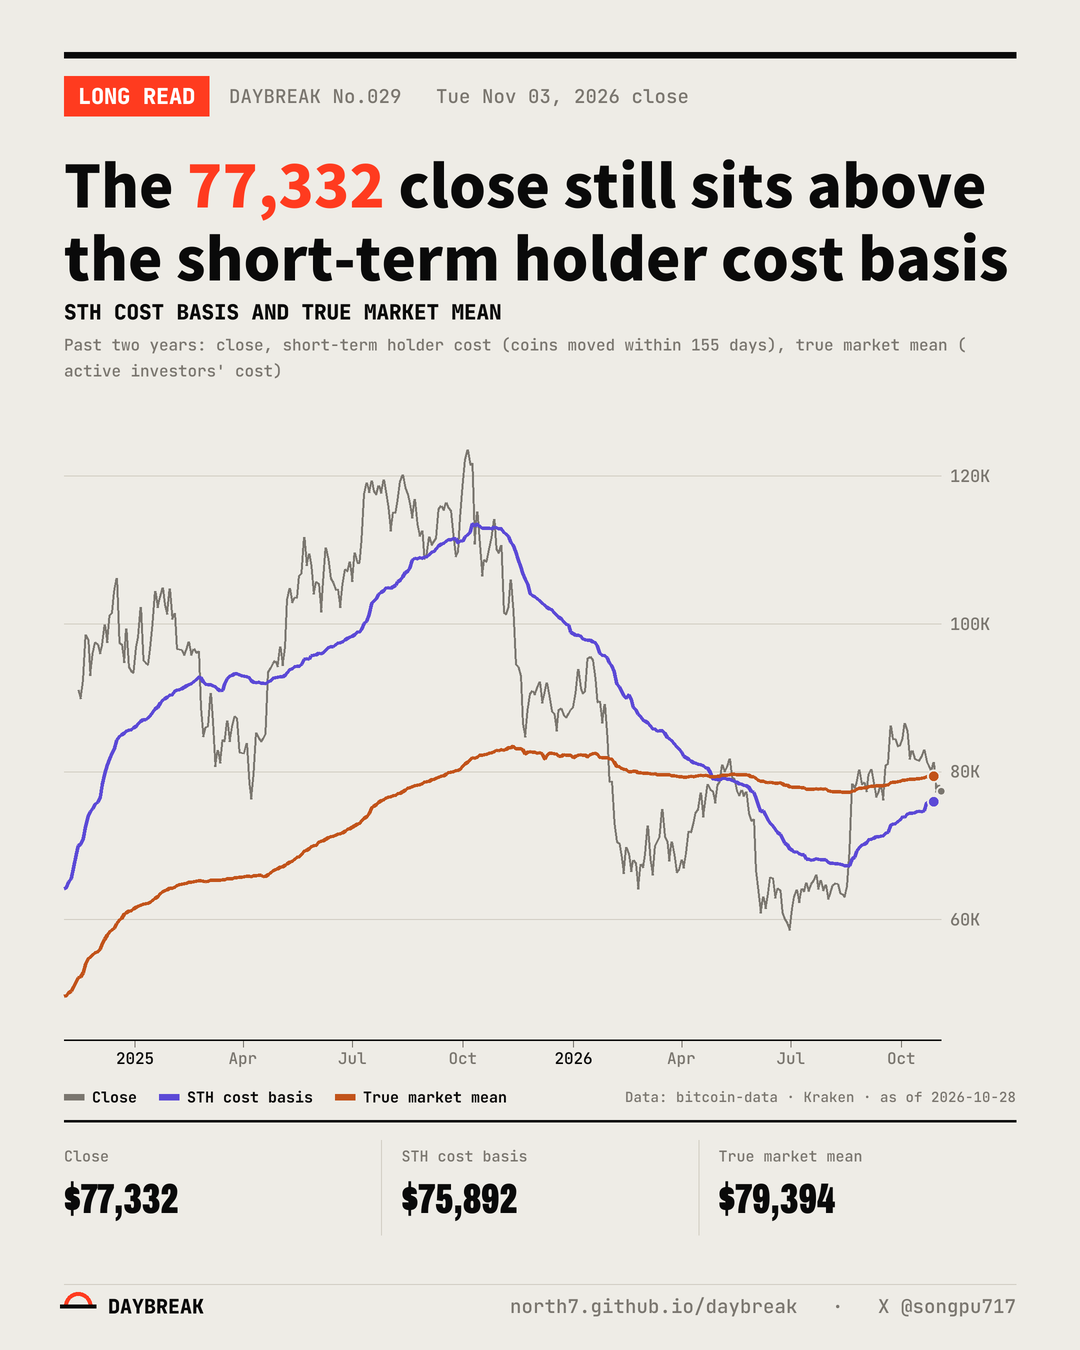
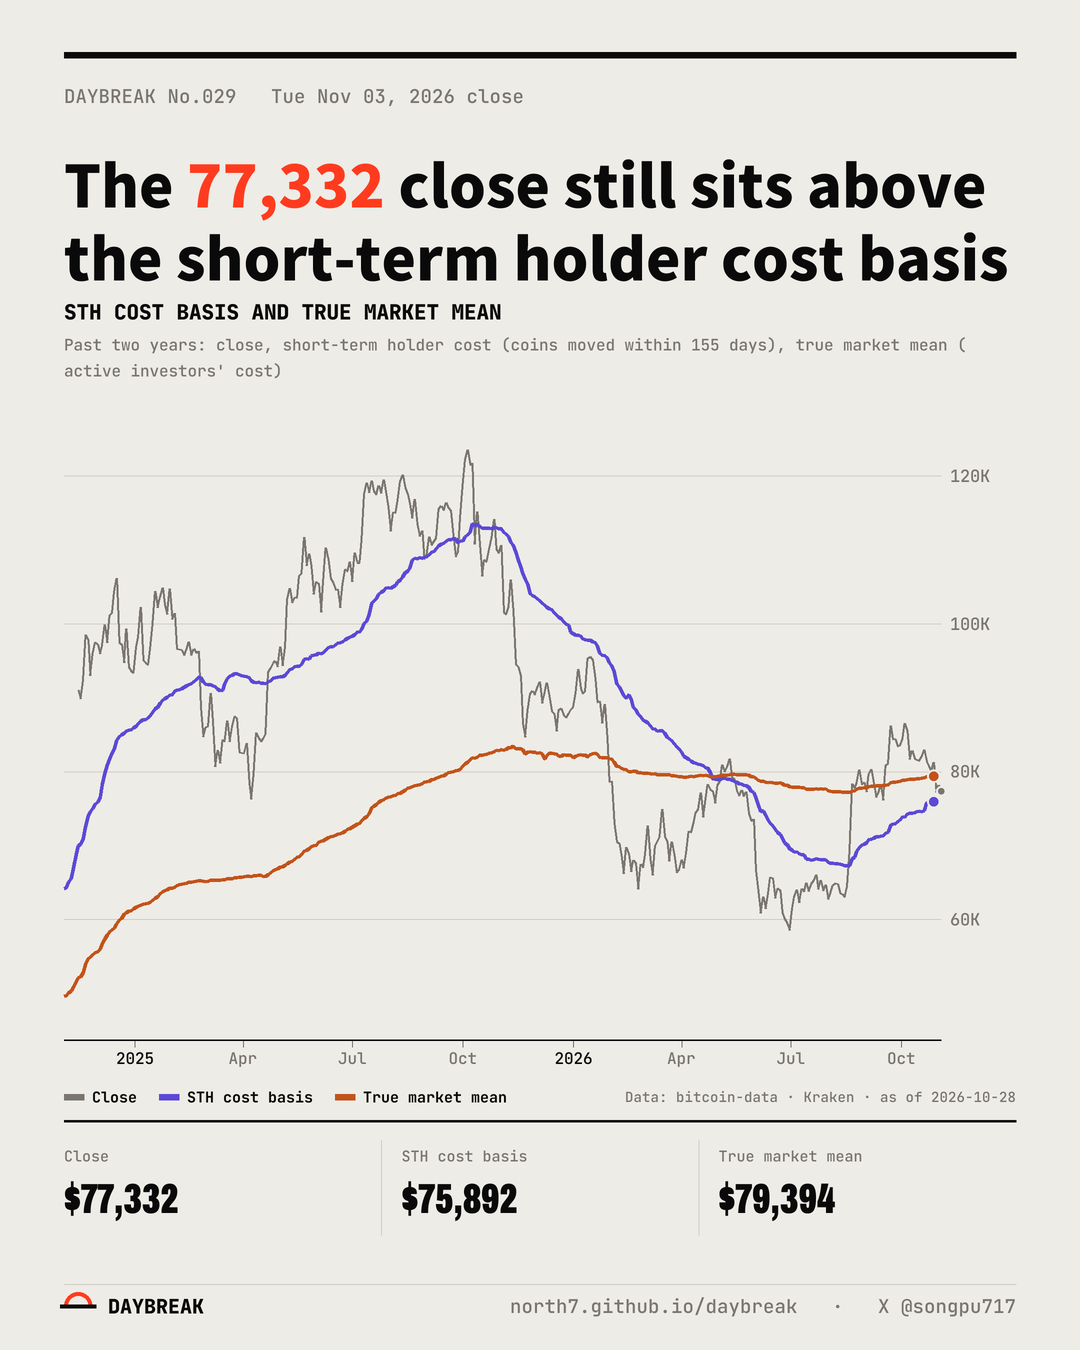
article: 長文配圖拿掉「長文圖表」標籤
- picks.py：card() 的 tag 給空字串就不畫標籤，日期列靠左；沒給 tag 時仍是「今日圖表」
- charts.py：長文 8 張圖不加標籤，重畫

Changed region(s): [[0.0611, 0.0311, 0.5194, 0.0933], [0.6111, 0.0622, 0.6417, 0.0933], [0.55, 0.0622, 0.5806, 0.0933]]

diff --git a/pipeline/picks.py b/pipeline/picks.py
@@ -417,9 +417,10 @@ def card(L, notes, sp, title, lang, Fn, out, tag=None):
     import share_card as SC
     img = Image.new('RGB', (W, H), PAPER); d = ImageDraw.Draw(img)
     d.rectangle([M, 104, W - M, 116], fill=INK)
-    tag = (tag or {}).get(lang) or ('今日圖表' if lang == 'zh' else 'CHART OF THE DAY')   # 長文配圖可換標籤（ops/articles/charts.py）
+    tag = (tag or {}).get(lang, '今日圖表' if lang == 'zh' else 'CHART OF THE DAY')   # 長文配圖可換標籤或給空字串不畫（ops/articles/charts.py）
     tf = Fn['cjk'](52, 900) if lang == 'zh' else Fn['mono'](44, 800)
-    tw = d.textlength(tag, font=tf); d.rectangle([M, 152, M + tw + 56, 232], fill=RED); d.text((M + 28, 192), tag, font=tf, fill='#FFFFFF', anchor='lm')
+    if tag: tw = d.textlength(tag, font=tf); d.rectangle([M, 152, M + tw + 56, 232], fill=RED); d.text((M + 28, 192), tag, font=tf, fill='#FFFFFF', anchor='lm')
+    else: tw = -96
     bd = dt.date.fromisoformat(g(L, 'meta.bar_date')); ed = (notes or {}).get('edition', 0) if (notes or {}).get('date') == g(L, 'meta.bar_date') else 0
     meta = (f'DAYBREAK No.{ed:03d}   ' if ed else 'DAYBREAK   ') + (f'{bd:%Y.%m.%d}（{WD["zh"][bd.weekday()]}）收盤版' if lang == 'zh' else f'{WD["en"][bd.weekday()]} {bd:%b %d, %Y} close')
     d.text((M + tw + 96, 192), meta, font=Fn['cjk'](38, 500) if lang == 'zh' else Fn['mono'](38, 500), fill=INK3, anchor='lm')

diff --git a/ops/articles/charts.py b/ops/articles/charts.py
@@ -19,7 +19,7 @@ import picks as PK                                        # noqa: E402
 from picks import T, S, INK, INK3, LINE, RED, S1, S2, S3, UP, dashed, nice   # noqa: E402
 from signals import dn, ds                                # noqa: E402
 
-TAG = {'zh': '長文圖表', 'en': 'LONG READ'}
+TAG = {'zh': '', 'en': ''}   # 長文配圖不加標籤（2026-11-04 使用者要求）
 
 
 def years(xa, xb, every=2):
